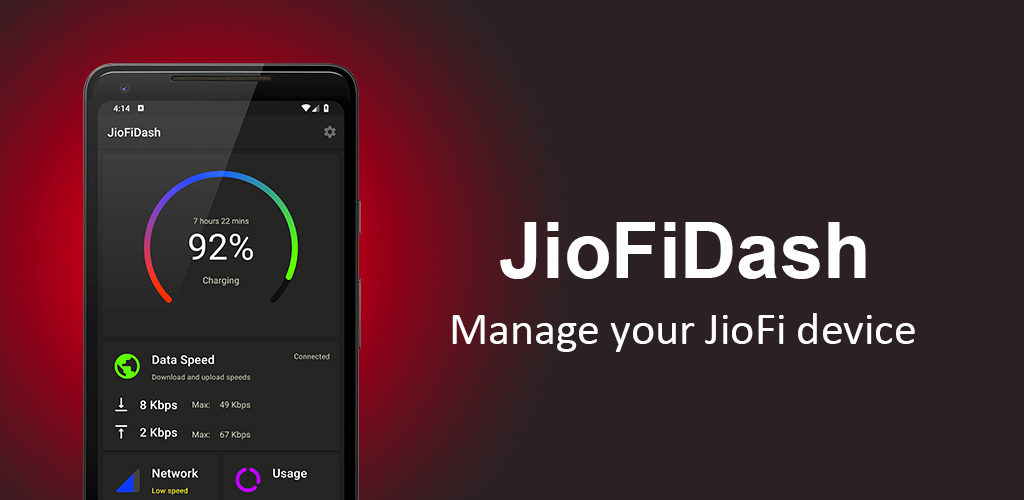
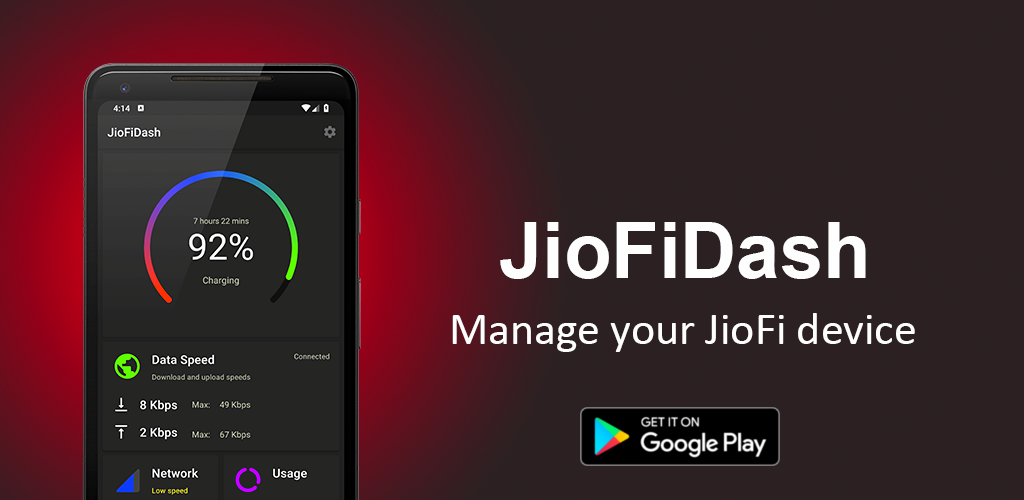
Fixed disqus threads

Changed region(s): [[0.5625, 0.81, 0.7812, 0.93]]

diff --git a/_layouts/post.html b/_layouts/post.html
@@ -38,8 +38,8 @@ layout: default
      *  LEARN WHY DEFINING THESE VARIABLES IS IMPORTANT: https://disqus.com/admin/universalcode/#configuration-variables*/
 
     var disqus_config = function () {
-    this.page.url = "https://blog.chirathr.com/";  // Replace PAGE_URL with your page's canonical URL variable
-    this.page.identifier = "{{ page.title }}"; // Replace PAGE_IDENTIFIER with your page's unique identifier variable
+    this.page.url = "https://blog.chirathr.com{{ page.url }}";  // Replace PAGE_URL with your page's canonical URL variable
+    this.page.identifier = "{{ page.url }}"; // Replace PAGE_IDENTIFIER with your page's unique identifier variable
     };
 
     (function() { // DON'T EDIT BELOW THIS LINE

diff --git a/_drafts/2018-08-28-jiofidash-experience.md b/_drafts/2018-08-28-jiofidash-experience.md
@@ -1,0 +1,30 @@
+---
+layout: post
+title: Building and releasing my first Android app
+categories: Android
+tags: Android, JioFi6, WiFi, Battery, Status, SSID, Password, Notifications
+comments: true
+---
+
+![JioFiDash](/public/images/2018-08-28-jiofidash-experience/jiofi-dash-promotion.png)
+
+<a href="https://play.google.com/store/apps/details?id=com.chirathr.jiofidash" target="_blank">
+    <img src="/public/images/2018-08-28-jiofidash-experience/available-on-google-play.png" alt="Battery status" style="border: 1px solid #e8e8e8; display: inline; margin: 20px 5px 0 5px;" width="200px"/>
+</a>
+
+It was a long journey here, I always had this day in mind. When I get to press the publish button to release the
+app to tens of thousands of users.
+
+The initial weeks were spend watching video tutorials, reading the developer docs. But after the 2nd week I started 
+thinking about the app I was gonna build. 
+
+#### Screenshots
+
+<div style="display: inline-block;">
+    <img src="/public/images/2018-08-28-jiofidash-experience/1.png" alt="Battery status" style="border: 1px solid #e8e8e8; display: inline; margin: 20px 5px 0 5px;" width="320px"/>
+    <img src="/public/images/2018-08-28-jiofidash-experience/2.png" alt="Wifi ssid, password" style="border: 1px solid #e8e8e8; display: inline; margin: 20px 5px 0 5px;" width="320px"/>
+    <img src="/public/images/2018-08-28-jiofidash-experience/3.png" alt="change ssid password" style="border: 1px solid #e8e8e8; display: inline; margin: 5px 5px 0 5px;" width="320px"/>
+    <img src="/public/images/2018-08-28-jiofidash-experience/4.png" alt="Restart and WPS" style="border: 1px solid #e8e8e8; display: inline; margin: 5px 5px 0 5px;" width="320px"/>
+    <img src="/public/images/2018-08-28-jiofidash-experience/5.png" alt="Notifications" style="border: 1px solid #e8e8e8; display: inline; margin: 5px 5px 5px 5px;" width="320px"/>
+    <img src="/public/images/2018-08-28-jiofidash-experience/6.png" alt="Select device" style="border: 1px solid #e8e8e8; display: inline; margin: 5px 5px 5px 5px;" width="320px"/>
+</div>
